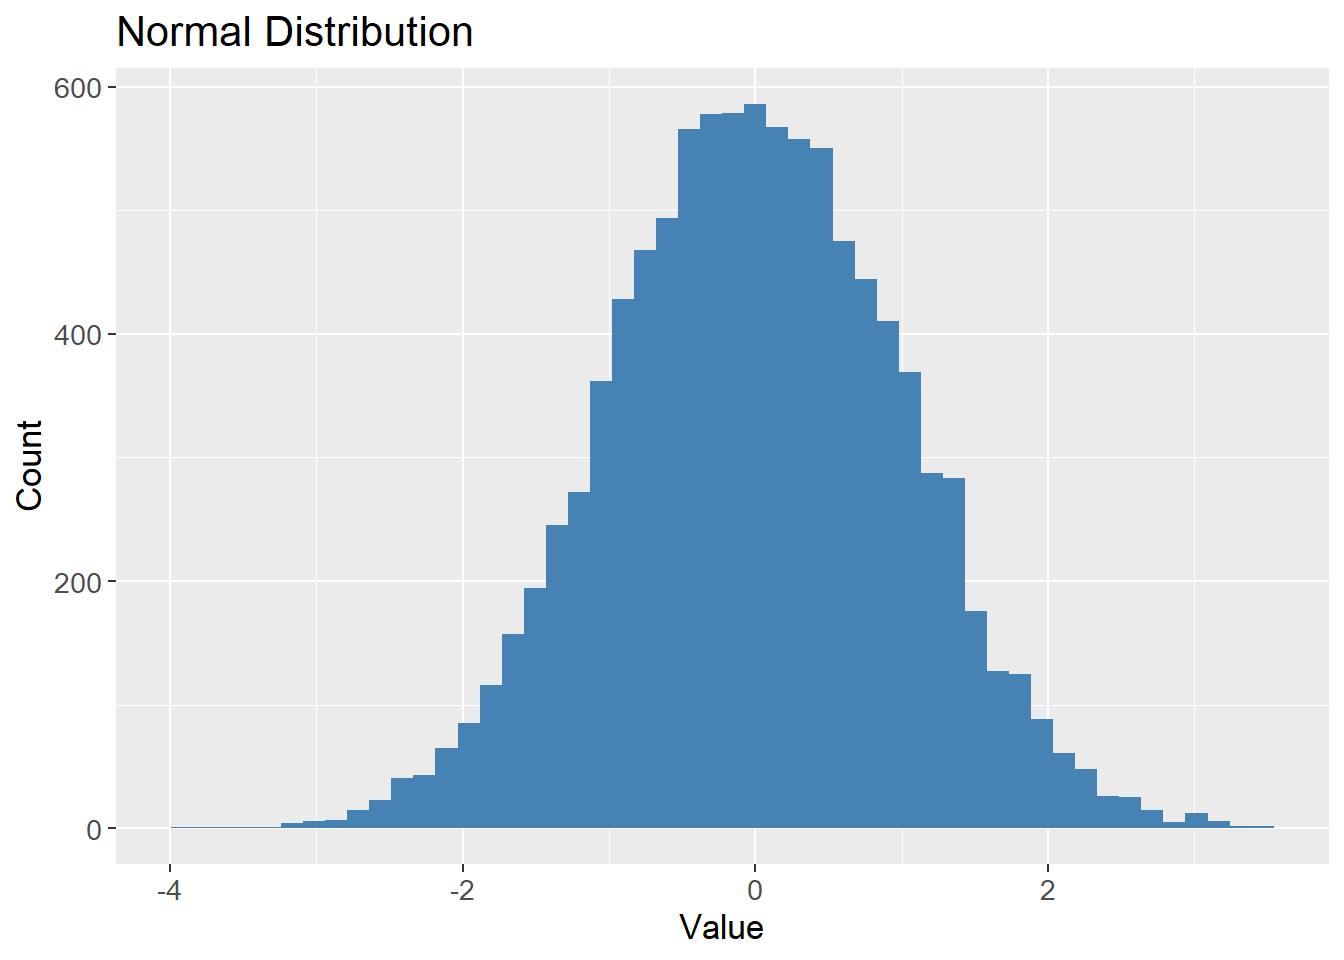
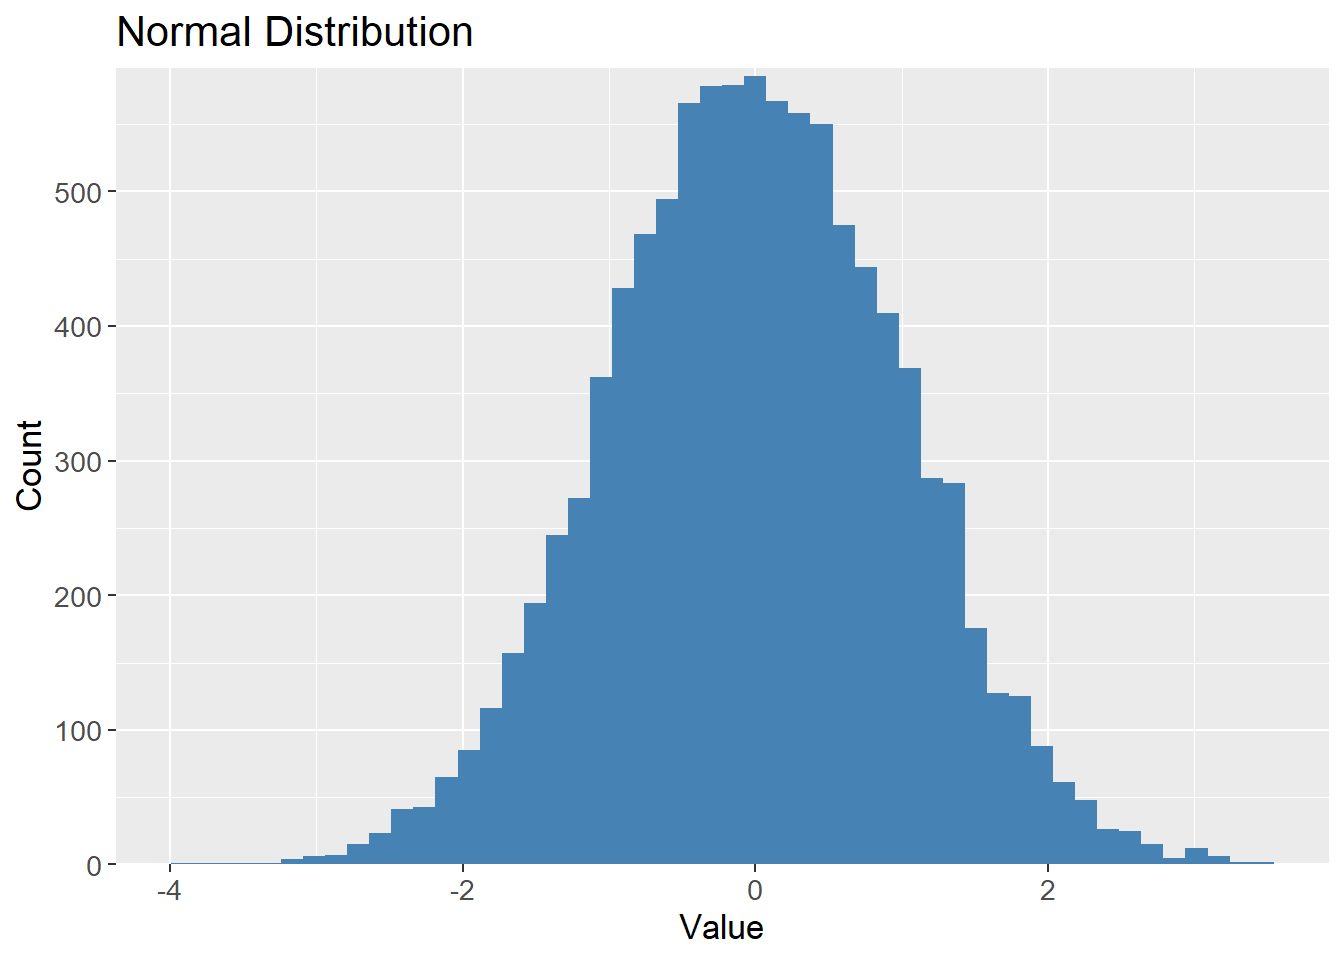
Update plots in bias_var

diff --git a/docs/_book/stat08_bias_var.html b/docs/_book/stat08_bias_var.html
@@ -469,10 +469,12 @@ pre > code.sourceCode > span > a:first-child::before { text-decoration: underlin
 <span id="cb6-5"><a href="#cb6-5" aria-hidden="true" tabindex="-1"></a>  <span class="fu">ggplot</span>(<span class="fu">aes</span>(<span class="at">x =</span> value)) <span class="sc">+</span></span>
 <span id="cb6-6"><a href="#cb6-6" aria-hidden="true" tabindex="-1"></a>  <span class="fu">geom_histogram</span>(<span class="at">bins =</span> <span class="dv">50</span>,</span>
 <span id="cb6-7"><a href="#cb6-7" aria-hidden="true" tabindex="-1"></a>                 <span class="at">fill =</span> <span class="st">"steelblue"</span>) <span class="sc">+</span></span>
-<span id="cb6-8"><a href="#cb6-8" aria-hidden="true" tabindex="-1"></a>  <span class="fu">labs</span>(<span class="at">title =</span> <span class="st">"Normal Distribution"</span>,</span>
-<span id="cb6-9"><a href="#cb6-9" aria-hidden="true" tabindex="-1"></a>       <span class="at">x =</span> <span class="st">"Value"</span>,</span>
-<span id="cb6-10"><a href="#cb6-10" aria-hidden="true" tabindex="-1"></a>       <span class="at">y =</span> <span class="st">"Count"</span>) <span class="sc">+</span></span>
-<span id="cb6-11"><a href="#cb6-11" aria-hidden="true" tabindex="-1"></a>  <span class="fu">theme</span>(<span class="at">text=</span><span class="fu">element_text</span>(<span class="at">size=</span><span class="dv">13</span>))</span></code><button title="Copy to Clipboard" class="code-copy-button"><i class="bi"></i></button></pre></div>
+<span id="cb6-8"><a href="#cb6-8" aria-hidden="true" tabindex="-1"></a>  <span class="fu">scale_y_continuous</span>(<span class="at">expand =</span> <span class="fu">c</span>(<span class="dv">0</span>, <span class="dv">0</span>,</span>
+<span id="cb6-9"><a href="#cb6-9" aria-hidden="true" tabindex="-1"></a>                                <span class="fl">0.01</span>, <span class="fl">0.01</span>)) <span class="sc">+</span></span>
+<span id="cb6-10"><a href="#cb6-10" aria-hidden="true" tabindex="-1"></a>  <span class="fu">labs</span>(<span class="at">title =</span> <span class="st">"Normal Distribution"</span>,</span>
+<span id="cb6-11"><a href="#cb6-11" aria-hidden="true" tabindex="-1"></a>       <span class="at">x =</span> <span class="st">"Value"</span>,</span>
+<span id="cb6-12"><a href="#cb6-12" aria-hidden="true" tabindex="-1"></a>       <span class="at">y =</span> <span class="st">"Count"</span>) <span class="sc">+</span></span>
+<span id="cb6-13"><a href="#cb6-13" aria-hidden="true" tabindex="-1"></a>  <span class="fu">theme</span>(<span class="at">text=</span><span class="fu">element_text</span>(<span class="at">size=</span><span class="dv">13</span>))</span></code><button title="Copy to Clipboard" class="code-copy-button"><i class="bi"></i></button></pre></div>
 <div class="cell-output-display">
 <div>
 <figure class="figure">
@@ -493,10 +495,12 @@ pre > code.sourceCode > span > a:first-child::before { text-decoration: underlin
 <span id="cb7-8"><a href="#cb7-8" aria-hidden="true" tabindex="-1"></a>  <span class="fu">ggplot</span>(<span class="fu">aes</span>(<span class="at">x =</span> value)) <span class="sc">+</span></span>
 <span id="cb7-9"><a href="#cb7-9" aria-hidden="true" tabindex="-1"></a>  <span class="fu">geom_histogram</span>(<span class="at">bins =</span> <span class="dv">50</span>,</span>
 <span id="cb7-10"><a href="#cb7-10" aria-hidden="true" tabindex="-1"></a>                 <span class="at">fill =</span> <span class="st">"steelblue"</span>) <span class="sc">+</span></span>
-<span id="cb7-11"><a href="#cb7-11" aria-hidden="true" tabindex="-1"></a>  <span class="fu">labs</span>(<span class="at">title =</span> <span class="st">"Bootstrap Sample"</span>,</span>
-<span id="cb7-12"><a href="#cb7-12" aria-hidden="true" tabindex="-1"></a>       <span class="at">x =</span> <span class="st">"Value"</span>,</span>
-<span id="cb7-13"><a href="#cb7-13" aria-hidden="true" tabindex="-1"></a>       <span class="at">y =</span> <span class="st">"Count"</span>) <span class="sc">+</span></span>
-<span id="cb7-14"><a href="#cb7-14" aria-hidden="true" tabindex="-1"></a>  <span class="fu">theme</span>(<span class="at">text=</span><span class="fu">element_text</span>(<span class="at">size=</span><span class="dv">13</span>))</span></code><button title="Copy to Clipboard" class="code-copy-button"><i class="bi"></i></button></pre></div>
+<span id="cb7-11"><a href="#cb7-11" aria-hidden="true" tabindex="-1"></a>  <span class="fu">scale_y_continuous</span>(<span class="at">expand =</span> <span class="fu">c</span>(<span class="dv">0</span>, <span class="dv">0</span>,</span>
+<span id="cb7-12"><a href="#cb7-12" aria-hidden="true" tabindex="-1"></a>                                <span class="fl">0.01</span>, <span class="fl">0.01</span>)) <span class="sc">+</span></span>
+<span id="cb7-13"><a href="#cb7-13" aria-hidden="true" tabindex="-1"></a>  <span class="fu">labs</span>(<span class="at">title =</span> <span class="st">"Bootstrap Sample"</span>,</span>
+<span id="cb7-14"><a href="#cb7-14" aria-hidden="true" tabindex="-1"></a>       <span class="at">x =</span> <span class="st">"Value"</span>,</span>
+<span id="cb7-15"><a href="#cb7-15" aria-hidden="true" tabindex="-1"></a>       <span class="at">y =</span> <span class="st">"Count"</span>) <span class="sc">+</span></span>
+<span id="cb7-16"><a href="#cb7-16" aria-hidden="true" tabindex="-1"></a>  <span class="fu">theme</span>(<span class="at">text=</span><span class="fu">element_text</span>(<span class="at">size=</span><span class="dv">13</span>))</span></code><button title="Copy to Clipboard" class="code-copy-button"><i class="bi"></i></button></pre></div>
 <div class="cell-output-display">
 <div>
 <figure class="figure">
